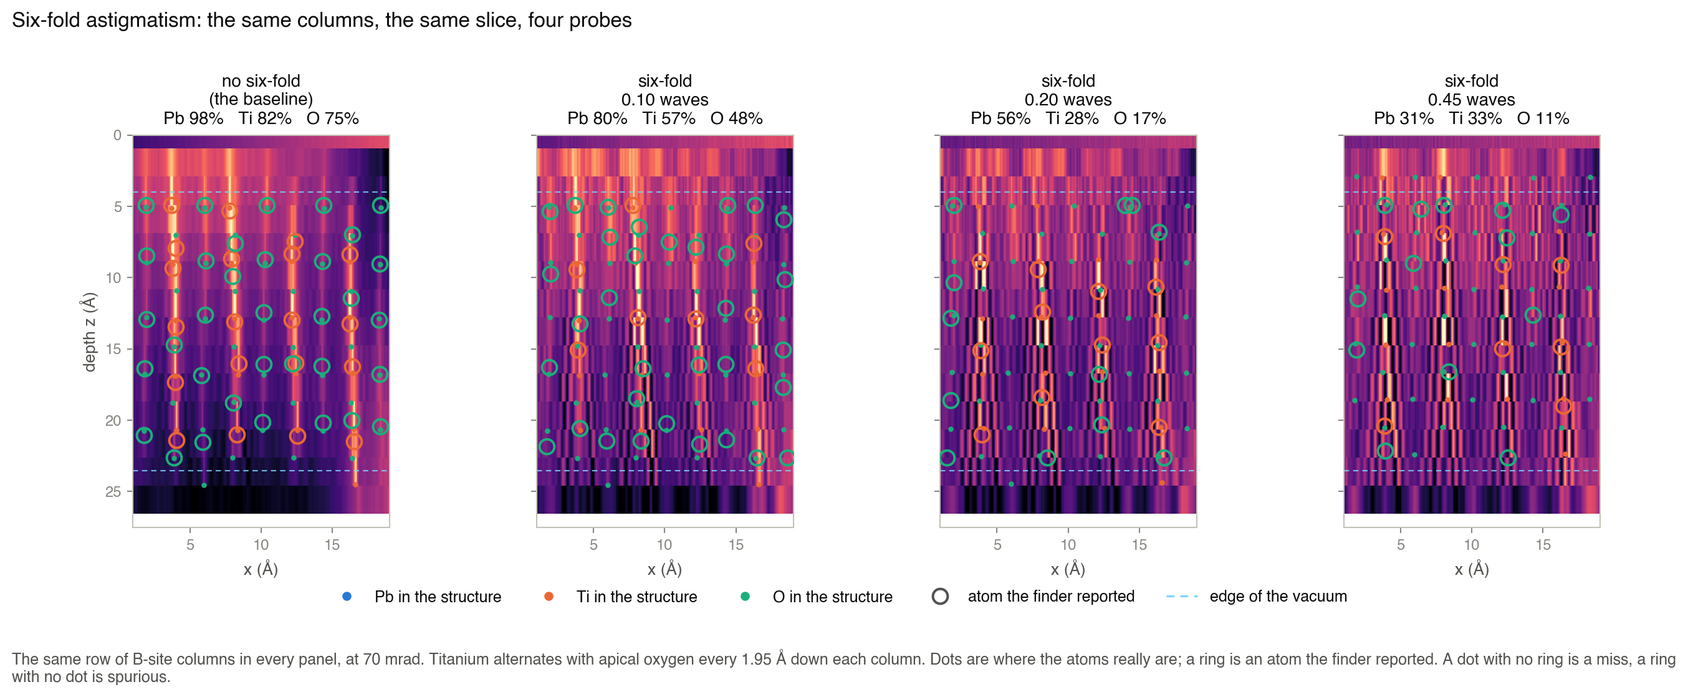
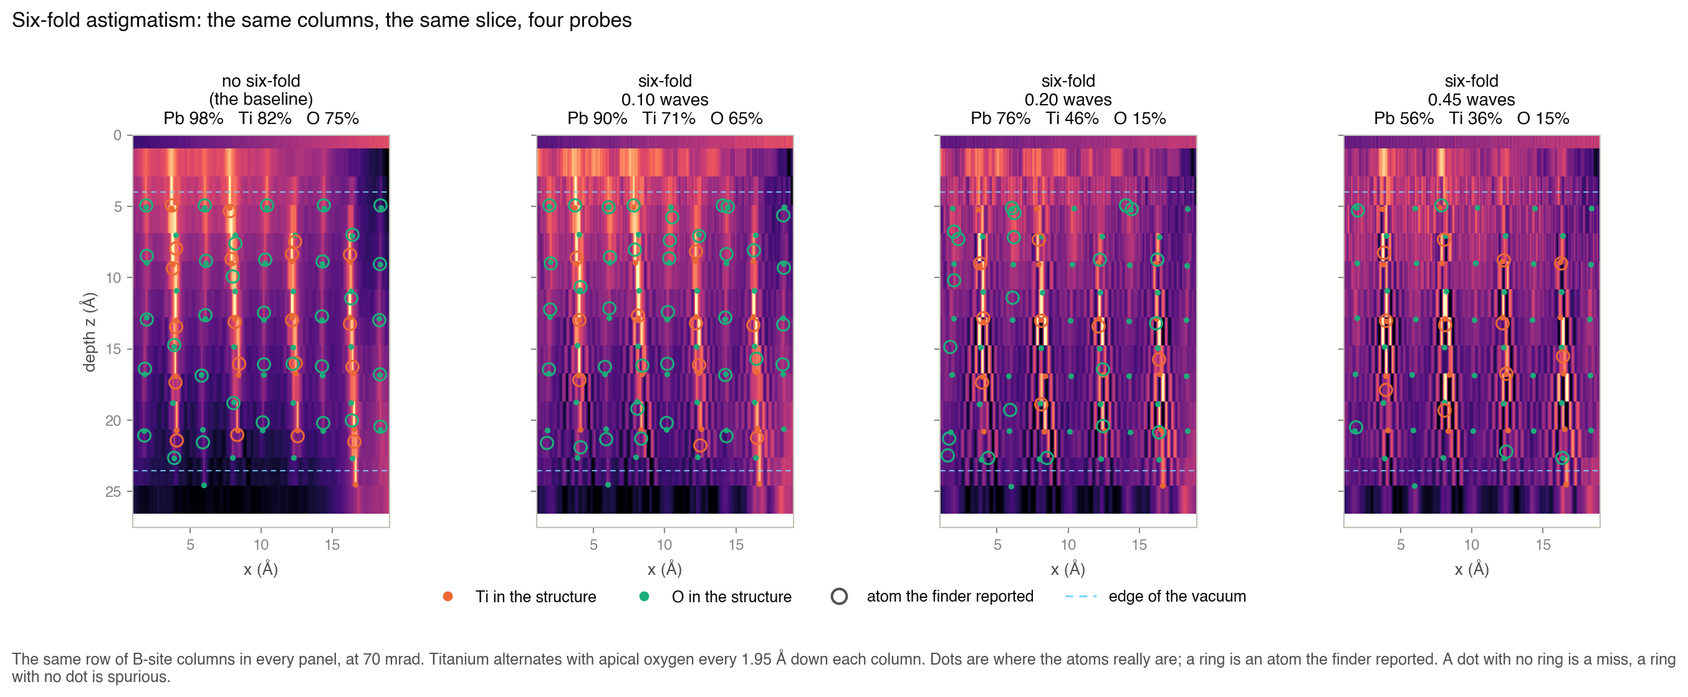
the probe-orientation fix was right: six-fold remeasured, up to +37 points of recall
The fix was nearly reverted on the strength of the wrong measurement. Re-reconstructing all eight
six-fold levels with the probe transposed along with the data moved the solver's final residual by
between -0.2% and +4%, on balance slightly worse, which read as a refutation. It was not. The same
eight reconstructions gained a mean of 17.5 points of lead recall, up to +37 at 1.2 waves, with
depth error and species confusion improving on every single level.

A fixed-probe solve with a free object absorbs a wrong probe into the object. The fit to the data
barely moves while the structure it produces is wrong -- the same degeneracy that defeats the
in-solver focus fit, which should have been recognised sooner. Judge a probe change on the object,
never on the residual. That is now the first thing the handoff says about it.

The six-fold ladder is therefore a result again, not a withdrawal. At 70 mrad the usable limit sits
between 0.1 and 0.2 waves: at 0.1 waves lead is 90% against a round-probe 98% and depth error 0.70 A
against 0.56, but species confusion is already 9.6% against a 5% threshold; by 0.2 waves oxygen has
fallen from 65% to 15%. All eight ladder rows rewritten from the corrected reconstructions, no VOID
rows remain, and the figures are regenerated from them.

The page drops the do-not-cite collapse and carries the corrected table, the before-and-after that
shows why the residual misled, and the open question: even corrected, the residual climbs with the
[…]

diff --git a/aberration_experiment/page/logbook.html b/aberration_experiment/page/logbook.html
@@ -271,7 +271,7 @@
     <div class="mast-meta">
       <span><b>Checkpoint</b> 2026-09-22</span>
       <span><b>Round-α campaign</b> complete</span>
-      <span><b>Relaxation ladder</b> focus and shot noise measured; six-fold withdrawn, being redone</span>
+      <span><b>Relaxation ladder</b> focus, shot noise and six-fold measured</span>
       <span><b>On the cluster</b> the 70 Å sample</span>
       <span><b>Written, not run</b> six-fold at 90 / 100 mrad; other orders</span>
     </div>
@@ -648,63 +648,95 @@
   </section>
 
   <section>
-    <h3 id="sixfold">5.3 &nbsp;Six-fold astigmatism — no result, and the bug that is the reason</h3>
+    <h3 id="sixfold">5.3 &nbsp;Six-fold astigmatism</h3>
+    <p>
+      A hexapole corrector nulls third-order spherical aberration and leaves six-fold astigmatism behind. No
+      round knob touches it and it grows as the sixth power of the aperture, so it is the residual that decides
+      how far the aperture can be opened. Eight levels were run at 70 mrad, each a complete pipeline: its own
+      reconstruction, its own single-atom reference measured through the same probe, then the finder run blind
+      and scored against the known structure.
+    </p>
     <div class="call stop">
-      <b>Nothing measured under six-fold astigmatism in this campaign is valid.</b> Every non-round
-      reconstruction ever run here — the August 2026 sweep, the escalation of 2026-09-21 and the threshold
-      ladder of 2026-09-22 — used a probe rotated 30° from the one the data was made with. A "tolerance below
-      0.1 waves" was published on this page on 2026-09-22 and withdrawn the same day. The engine is fixed and
-      every leg is being reconstructed again. Until they return, this campaign has <em class="term">no</em>
-      measurement of how much six-fold astigmatism the method tolerates.
+      <b>These numbers were measured twice.</b> The first set, published on 2026-09-22, was made with the probe
+      rotated 30° from the one the data came from, and was withdrawn. Everything below is the second set, on the
+      corrected engine. How that was found is worth reading before the table, because the way it hid is a
+      warning about which number to trust.
     </div>
-    <p>
-      It was caught by eye, not by a check. The reconstructions looked wrong — striped, and stuck at a mismatch
-      far above the round probe's — and a known-probe reconstruction should barely notice 0.2 waves of any smooth
-      aberration. Every test said the probe was right, which is what made it a paradox worth chasing rather than
-      a result worth believing.
-    </p>
-    <p>
-      The engine applies a detector orientation, <code>custom_data_flip = [0,0,1]</code>, which
-      <em class="term">transposes the diffraction data</em> as it loads. That setting was established by
-      reconstructing a chiral phantom under all eight detector orientations — with a round probe. The simulation
-      writes the probe in the same axis order as the data, and nothing transposed the probe to match. <strong>A
-      round probe is its own transpose</strong>, so every round leg of the campaign was correct and no test could
-      expose this. A six-fold probe is not: the transpose rotates the star by 30°. Two-fold is rotated by 90°,
-      three-fold by 30°; four-fold alone is unaffected.
-    </p>
+
     <div class="tablewrap">
       <table>
-        <caption>How badly wrong the probe was, and what it cost. The overlap is between the probe the engine
-          used and the one the data was made with. The equivalent focus error is the defocus that would produce
-          the same overlap; the mismatch it implies is read off the focus landscape in 5.1, and it is what those
-          legs actually plateaued at. The round probe reaches 22.</caption>
-        <thead><tr><th>six-fold</th><th>probe overlap</th><th>as a focus error</th><th>mismatch reached</th></tr></thead>
+        <caption>Six-fold astigmatism at 70 mrad, known probe, no counting noise, static atoms, reconstructed on
+          the corrected engine. Recall is over the interior planes. Confusion is the finder's own species-labelling
+          health check, whose threshold is 5 %. The tinted row is the round-probe baseline.</caption>
+        <thead><tr><th>six-fold</th><th>C<sub>56</sub></th><th>lead</th><th>titanium</th><th>oxygen</th><th>depth error</th><th>confusion</th></tr></thead>
         <tbody>
-          <tr><td>0.10 waves</td><td>0.95</td><td>≈ 1 Å</td><td>38</td></tr>
-          <tr><td>0.20 waves</td><td>0.82</td><td>≈ 4 Å</td><td>54</td></tr>
-          <tr><td>0.30 waves</td><td>0.69</td><td>≈ 5 Å</td><td>64</td></tr>
-          <tr><td>0.45 waves</td><td>0.57</td><td>≈ 6 Å</td><td>71</td></tr>
+          <tr class="ref"><td>none</td><td>—</td><td>98 %</td><td>82 %</td><td>75 %</td><td>0.56 Å</td><td>1.3 %</td></tr>
+          <tr><td>0.10 waves</td><td>10 µm</td><td>90 %</td><td>71 %</td><td>65 %</td><td>0.70 Å</td><td>9.6 % <span class="chip c-warn">failed</span></td></tr>
+          <tr><td>0.20 waves</td><td>20 µm</td><td>76 %</td><td>46 %</td><td>15 %</td><td>0.65 Å</td><td>17.5 % <span class="chip c-stop">failed</span></td></tr>
+          <tr><td>0.30 waves</td><td>30 µm</td><td>62 %</td><td>31 %</td><td>11 %</td><td>0.70 Å</td><td>24.2 % <span class="chip c-stop">failed</span></td></tr>
+          <tr><td>0.45 waves</td><td>45 µm</td><td>56 %</td><td>36 %</td><td>15 %</td><td>0.71 Å</td><td>28.1 % <span class="chip c-stop">failed</span></td></tr>
+          <tr><td>0.60 waves</td><td>60 µm</td><td>65 %</td><td>40 %</td><td>16 %</td><td>0.77 Å</td><td>22.2 % <span class="chip c-stop">failed</span></td></tr>
+          <tr><td>1.20 waves</td><td>0.12 mm</td><td>44 %</td><td>35 %</td><td>12 %</td><td>0.79 Å</td><td>28.8 % <span class="chip c-stop">failed</span></td></tr>
+          <tr><td>2.50 waves</td><td>0.25 mm</td><td>20 %</td><td>18 %</td><td>4 %</td><td>0.88 Å</td><td>38.8 % <span class="chip c-stop">failed</span></td></tr>
         </tbody>
       </table>
     </div>
+
+    <h3>What the table says</h3>
+    <ul>
+      <li><strong>The heavy atoms survive 0.1 waves.</strong> Lead is 90 % against a round-probe 98 %, and depth
+        error 0.70 Å against 0.56. That is a cost, not a collapse.</li>
+      <li><strong>Species labelling does not.</strong> Confusion crosses its 5 % health threshold at the very
+        first level and is 17 % by the second. Where it has failed, the split between lead, titanium and oxygen
+        is label swapping and must not be read as physics.</li>
+      <li><strong>Oxygen falls off a cliff between 0.1 and 0.2 waves</strong>, 65 % to 15 %, while lead only goes
+        90 to 76. The light atoms are the first thing lost.</li>
+      <li><strong>So the usable limit sits between 0.1 and 0.2 waves</strong> if you need species labels, and
+        nearer 0.2 if you only need the heavy lattice. The ladder does not resolve it more finely than that;
+        rungs at 0.02, 0.04 and 0.07 waves are written and waiting on cluster time.</li>
+      <li><strong>Depth error is nearly flat</strong> across the whole ladder, 0.65 to 0.88 Å, because it is
+        measured only on the atoms still being found. Recall is the honest column.</li>
+    </ul>
+
+    <h3>How the error hid, and what it cost to find</h3>
     <p>
-      The four checks that came before the diagnosis were each true, and together they are what forced it: the
-      probe <em class="term">file</em> was right (overlap 1.000000 against an independent rebuild, so the fault
-      was in what the engine did with it); the solver had converged, its mismatch falling under 3 % over the
-      final fifth of its iterations, to a worse fit rather than an unfinished one; the stripes carried the
-      lattice's own periods, 3.9 and 1.97 Å, the same as the round leg's, driven further into the exit vacuum;
-      and the reconstruction window held all but 0.3 % of the probe at every level. Right file, converged, worse
-      fit, no window effect — which left only the engine's own handling of the probe.
+      The engine applies a detector orientation, <code>custom_data_flip = [0,0,1]</code>, which
+      <em class="term">transposes the diffraction data</em> as it loads. That setting was established by
+      reconstructing a chiral phantom under all eight orientations — with a round probe. The simulation writes
+      the probe in the same axis order as the data, and nothing transposed the probe to match. <strong>A round
+      probe is its own transpose</strong>, so every round leg of the campaign was correct and no test in the
+      pipeline could expose this. A six-fold probe is not: the transpose rotates the star by 30°.
     </p>
-    <div class="call ok">
-      <b>The fix.</b> <code>load_from_p.m</code> now applies every flip the data receives to the probe and to
-      its aperture mask, at the same place in the code, so the two cannot diverge again. The simulations were
-      never affected, so every leg re-reconstructs from data already on disk.
+    <div class="call stop">
+      <b>The data residual did not show it, and very nearly sent us the wrong way.</b> Re-running all eight levels
+      with the probe correctly oriented changed the solver's final mismatch by between −0.2 % and +4 %, and on
+      balance made it slightly <em>worse</em> — which read as a refutation. It was not. The same eight
+      reconstructions gained up to 37 points of lead recall. A fixed-probe solve with a free object absorbs a
+      wrong probe into the object: the fit to the data barely moves while the structure it produces is wrong.
+      It is the same degeneracy that defeats the in-solver focus fit in 5.1. <strong>Judge a probe change on the
+      object, never on the residual.</strong>
     </div>
-    <p>
-      What survives of this step is not a tolerance but two things that do not depend on any reconstruction: what
-      six-fold does to the probe, below, and how fast each residual grows with aperture, in §6.
-    </p>
+    <div class="tablewrap">
+      <table>
+        <caption>The same eight reconstructions, before and after the probe was transposed along with the data.
+          The residual is what we first judged it by; recall is what was actually happening.</caption>
+        <thead><tr><th>six-fold</th><th>residual</th><th>lead recall</th><th>depth error</th><th>confusion</th></tr></thead>
+        <tbody>
+          <tr><td>0.10 waves</td><td>37.8 → 37.8</td><td>80 → <strong>90 %</strong></td><td>0.76 → 0.70 Å</td><td>12.4 → 9.6 %</td></tr>
+          <tr><td>0.20 waves</td><td>54.2 → 54.7</td><td>56 → <strong>76 %</strong></td><td>0.82 → 0.65 Å</td><td>28.4 → 17.5 %</td></tr>
+          <tr><td>0.45 waves</td><td>71.2 → 74.0</td><td>31 → <strong>56 %</strong></td><td>0.86 → 0.71 Å</td><td>31.9 → 28.1 %</td></tr>
+          <tr><td>1.20 waves</td><td>75.8 → 77.2</td><td>7 → <strong>44 %</strong></td><td>1.03 → 0.79 Å</td><td>50.0 → 28.8 %</td></tr>
+        </tbody>
+      </table>
+    </div>
+    <div class="call">
+      <b>One thing is still unexplained.</b> Even corrected, the solver's residual climbs steadily with the
+      aberration — 24 for a round probe, 38 at 0.1 waves, 74 at 0.45 — and rotating the probe barely moves it.
+      Something tracks the aberration's magnitude while ignoring its orientation, and we do not yet know what.
+      Two checks are on the cluster: the round control reconstructed from this campaign's own simulation, to
+      confirm the 24 is comparable at all, and the 0.45-wave leg at 28 depth layers instead of 14, to test
+      whether the reconstruction's own slice thickness sets the floor.
+    </div>
   </section>
 
   <section class="wide">
@@ -732,55 +764,29 @@
           beam, stretched along it. Every leg gets its own.</div>
       </figcaption>
     </figure>
-  </section>
-
-  <section>
-    <details class="void">
-      <summary>Withdrawn: the six-fold measurements as they were published on 2026-09-22 — do not cite</summary>
-      <div class="void-body">
-        <p>
-          Kept only so the record shows what was claimed and what it looked like. Every number and every
-          reconstruction here carries the probe-orientation error described above. They are not a measurement of
-          six-fold tolerance; they are a measurement of a 30° probe rotation that grows with the aberration.
-        </p>
-        <div class="tablewrap">
-          <table>
-            <caption>VOID. Six-fold astigmatism at 70 mrad, known probe, no counting noise, static atoms, as
-              published on 2026-09-22.</caption>
-            <thead><tr><th>six-fold</th><th>C<sub>56</sub></th><th>lead found</th><th>titanium</th><th>oxygen</th><th>depth error</th></tr></thead>
-            <tbody>
-              <tr class="ref"><td>none</td><td>—</td><td>98 %</td><td>82 %</td><td>75 %</td><td>0.56 Å</td></tr>
-              <tr><td>0.10 waves</td><td>10 µm</td><td>80 %</td><td>57 %</td><td>48 %</td><td>0.76 Å</td></tr>
-              <tr><td>0.20 waves</td><td>20 µm</td><td>56 %</td><td>28 %</td><td>17 %</td><td>0.82 Å</td></tr>
-              <tr><td>0.45 waves</td><td>45 µm</td><td>31 %</td><td>33 %</td><td>11 %</td><td>0.86 Å</td></tr>
-            </tbody>
-          </table>
-        </div>
-        <figure>
-          <img src="{{FIG_NONROUND}}" alt="Withdrawn: four depth sections through the same row of columns at no six-fold and at 0.10, 0.20 and 0.45 waves.">
-          <figcaption>
-            <span class="fig-name">VOID · fig_nonround.png</span>
-            The striping that spreads across the field as six-fold grows is the signature of the mis-oriented
-            probe, not of the aberration.
-          </figcaption>
-        </figure>
-        <figure>
-          <img src="{{FIG_BLAME}}" alt="Withdrawn: the same depth section three times at 0.20 waves — bare, with true positions, with detections.">
-          <figcaption>
-            <span class="fig-name">VOID · fig_didfinderfail_0p2.png</span>
-            This figure asked whether the reconstruction or the atom finder was at fault. The answer, now, is
-            neither: the probe was wrong.
-          </figcaption>
-        </figure>
-        <p>
-          One result from this block does survive, because it is a control rather than a measurement. Re-running
-          the finder on identical reconstructions with its quality threshold relaxed recovers a large amount of
-          recall on aberrated legs while changing the clean baseline almost not at all — so the finder's cut does
-          discard real atoms when its reference degrades, whatever the cause. On the thermal-vibration legs the
-          same change does nothing whatsoever, which is why the phonon collapse is trusted as physics.
-        </p>
-      </div>
-    </details>
+    <figure>
+      <img src="{{FIG_NONROUND}}" alt="Four depth sections through the same row of columns, at no six-fold and at 0.10, 0.20 and 0.45 waves, true atom positions as dots and detections as rings.">
+      <figcaption>
+        <span class="fig-name">analysis/make_simple_figs.py → figs/2026-W39/simple/fig_nonround.png</span>
+        The same row of columns, the same slice, four probes, on the corrected engine. Dots are where the atoms
+        really are; a ring is an atom the finder reported.
+        <div class="howto"><b>Reading it</b><br>Titanium alternates with apical oxygen every 1.95 Å down each
+          column, so a working reconstruction beads each column into separate blobs. A dot with no ring is a
+          missed atom; a ring with no dot is a spurious one. At 0.10 waves the columns are still beaded and
+          mostly found; by 0.45 the light atoms between them have gone.</div>
+      </figcaption>
+    </figure>
+    <figure>
+      <img src="{{FIG_BLAME}}" alt="The same depth section three times at 0.20 waves of six-fold: bare, with true atom positions, and with the finder's detections added.">
+      <figcaption>
+        <span class="fig-name">analysis/make_simple_figs.py → figs/2026-W39/simple/fig_didfinderfail_0p2.png</span>
+        One level, 0.20 waves, shown three ways so the reconstruction can be judged before the answer is drawn
+        on it.
+        <div class="howto"><b>Reading it</b><br>Judge the left panel on its own first, then see which peaks
+          carried a detection. This is the figure that made the probe error findable: peaks were plainly present
+          that the finder was not reporting, which is what prompted looking at the probe rather than the finder.</div>
+      </figcaption>
+    </figure>
   </section>
 
   <section id="s6">
@@ -876,7 +882,7 @@
           <tr><td>1</td><td class="wrap">focus unknown</td><td class="wrap"><strong>no real cost</strong>, by an outer search; the in-solver fit is closed</td><td><span class="chip c-ok">measured</span></td></tr>
           <tr><td>2</td><td class="wrap">shot noise</td><td class="wrap">works to 10<sup>5</sup> e/Å²; at 10<sup>4</sup> no single-atom reference can be measured</td><td><span class="chip c-ok">measured</span></td></tr>
           <tr><td>3</td><td class="wrap">thermal vibration</td><td class="wrap">depth error roughly doubles; oxygen recall 10–17 %; not a finder artefact</td><td><span class="chip c-warn">costly</span></td></tr>
-          <tr><td>4</td><td class="wrap">six-fold astigmatism, 70 mrad</td><td class="wrap"><strong>withdrawn</strong>: reconstructed with a mis-oriented probe; loader fixed, legs being redone</td><td><span class="chip c-warn">redo</span></td></tr>
+          <tr><td>4</td><td class="wrap">six-fold astigmatism, 70 mrad</td><td class="wrap"><strong>usable limit between 0.1 and 0.2 waves</strong>; species labels fail from 0.1. Remeasured on the corrected engine</td><td><span class="chip c-ok">measured</span></td></tr>
           <tr><td>4b</td><td class="wrap">six-fold at 90 and 100 mrad</td><td class="wrap">same waves as the 70 mrad rungs, plus the 10 µm value carried up unchanged</td><td><span class="chip c-open">written</span></td></tr>
           <tr><td>4c</td><td class="wrap">other orders: two-fold, three-fold, three-lobe</td><td class="wrap">at 0.1 and 0.3 waves — does the limit transfer?</td><td><span class="chip c-open">written</span></td></tr>
           <tr><td>4d</td><td class="wrap">the assumed instrument as-is, 70 mrad</td><td class="wrap">C<sub>56</sub> 1 mm: needs binning 1 and a wider scan, ~3 GPU-days, expected to fail on geometry</td><td><span class="chip c-none">optional</span></td></tr>

diff --git a/analysis/make_simple_figs.py b/analysis/make_simple_figs.py
@@ -160,8 +160,9 @@ def recall(af_dir):
 
 
 # ------------------------------------------------------------------ the figures
-NR_ROOT = "~/Desktop/relax_0922/atomfind_results_nr0p1_C56_0p1w-nr0p2_C56_0p2w-nr0p3_C56_0p3w-nr0p45_C56_0p45w_20260921_225614"
-NR_AF = "~/Desktop/relax_0922/analysis_0922"
+# the six-fold legs as re-reconstructed with the probe transposed along with the data
+NR_ROOT = "~/Desktop/nr_block2/atomfind_results_nr0p1_C56_0p1w-nr0p2_C56_0p2w-nr0p3_C56_0p3w-nr0p45_C56_0p45w-nr1_C56_0p6w-nr2_C56_1p2w-nr3_C56_2p5w-nr4_C56_C34_20260922_122756"
+NR_AF = "~/Desktop/nr_block2/analysis_fixed"
 DOSE_ROOT = "~/Desktop/relax_0917/atomfind_results_a70-90_dose1e7-1e6-1e5-1e4_20260917_181903"
 DOSE_AF = "~/Desktop/relax_0917/dose_analysis"
 BASE_RECON = "~/Desktop/thin_ab_af_final/recon_af_a70_lab_NL14"

diff --git a/analysis/make_relaxation_figs.py b/analysis/make_relaxation_figs.py
@@ -42,7 +42,10 @@ from make_meeting_figs import (S1, S2, S3, INK, INK2, MUTED, GRIDC, SPECIES,   #
                                style, tag, save, read_csv_rows, read_reports, results_dir,
                                _load_mod, build_probe, aperture_phase, probe_crop)
 
-RELAX = ["~/Desktop/relax_0921", "~/Desktop/relax_0922"]
+# nr_block2 FIRST: it holds the six-fold legs re-reconstructed on the engine that transposes the
+# probe with the data (2026-09-22). af() takes the first root that has a leg, so the corrected
+# reconstruction wins over the pre-fix one of the same name.
+RELAX = ["~/Desktop/nr_block2", "~/Desktop/relax_0921", "~/Desktop/relax_0922"]
 AF_FINAL = "~/Desktop/thin_ab_af_final"
 BAD = "#c1502a"
 _AW = None

diff --git a/aberration_experiment/HANDOFF_ANALYSIS.md b/aberration_experiment/HANDOFF_ANALYSIS.md
@@ -1,4 +1,4 @@
-# Handoff — the non-round results were wrong; the engine is fixed and the campaign is re-running
+# Handoff — the probe-orientation bug is real and fixed; six-fold is remeasured
 
 Written 2026-09-22, after the round-two analysis. **Read `HANDOVER.md`** for the experiment itself,
 then `NEXT_PHASE.md` for the plan and `PSF_KERNELS.md` for the kernel rules. The two published pages
@@ -33,27 +33,46 @@ to the **same** URL. One page. Never start another for an update.
 
 ## Where it stands
 
-**Two results stand from the 2026-09-22 round, and one does not.**
+**Three results stand from the 2026-09-22 round.**
 
-**Valid — an unknown focus costs nothing.** An outer search over fixed trial probes, reading the solver's own
-mismatch as the objective, puts its minimum on the true focus at both apertures (−2 ± 3 Å at 70 mrad, +2 ± 1 Å
-at 90; the ±2 Å floor is the focus/depth degeneracy and is real). Reconstructing at the fitted focus costs
-nothing measurable: depth error 0.56 → 0.59 Å at 70 mrad, 0.37 → 0.44 at 90. Fifty iterations rank the trials
-as two hundred do, which is what makes it affordable. The tidier alternative — the solver fitting focus as its
-one free probe parameter — is **closed as a failure**: at 90 mrad the focus never moves by 1 Å from starts 32 Å
-out, at 70 mrad it moves the wrong way to about 21 Å below the truth whatever it started from, and neither
-freezing the object nor capping the step changes it.
+**Valid — an unknown focus costs nothing.** An outer search over fixed trial probes puts its minimum on the
+true focus at both apertures (−2 ± 3 Å at 70 mrad, +2 ± 1 Å at 90) and costs nothing measurable: depth error
+0.56 → 0.59 Å at 70 mrad, 0.37 → 0.44 at 90. The in-solver alternative is **closed as a failure**.
 
-**Valid — shot noise behaves.** 10⁷ and 10⁶ e/Å² hold up, 10⁵ works with the light atoms going, and at 10⁴ no
-single-atom reference can be measured from the data at all, so the finder never runs. Numbers in the ladder,
-pictures on the page.
+**Valid — shot noise behaves.** 10⁷ and 10⁶ e/Å² hold, 10⁵ works with the light atoms going, and at 10⁴ no
+single-atom reference can be measured at all, so the finder never runs.
 
-**VOID — everything non-round.** Every reconstruction with a non-round probe ever made in this campaign used a
-probe rotated 30° from the one the data was made with (first row of *Traps*). That covers the August 2026
-sweep, the 2026-09-21 escalation and the 2026-09-22 threshold ladder. A "six-fold tolerance below 0.1 waves"
-was published on 2026-09-22 and withdrawn the same day. **The campaign currently has no measurement of how much
-non-round aberration the method tolerates.** The engine is fixed, the simulations were never affected, and
-every leg is re-reconstructing; see *Your job*.
+**Valid, after being remeasured — six-fold astigmatism.** The usable limit at 70 mrad sits **between 0.1 and
+0.2 waves**: at 0.1 waves lead recall is 90 % against a round-probe 98 % and depth error 0.70 Å against 0.56,
+but species confusion is already 9.6 % against a 5 % health threshold; by 0.2 waves oxygen has gone from 65 %
+to 15 %. Rungs at 0.02, 0.04 and 0.07 waves are written and waiting on cluster time.
+
+### The probe-orientation bug — real, fixed, and a lesson about which number to trust
+
+The engine transposes the diffraction data on load (`custom_data_flip = [0,0,1]`, set by a chiral-phantom test
+run with a **round** probe) and did not transpose the probe with it. A round probe is its own transpose, so
+every round leg was always correct and nothing in the pipeline could expose it; a six-fold probe is rotated
+30°. `load_from_p.m` now applies every data flip to the probe and its aperture mask.
+
+**The data residual does not show it.** Re-running all eight levels with the probe correct changed the
+solver's final mismatch by between −0.2 % and +4 %, on balance slightly *worse* — which reads as a refutation
+and very nearly got the fix reverted. The same eight reconstructions gained up to **37 points** of lead recall,
+with depth error and species confusion improving on every one. A fixed-probe solve with a free object absorbs a
+wrong probe into the object: the fit barely moves while the structure is wrong. It is the same degeneracy that
+defeats the in-solver focus fit. **Judge a probe change on the object, never on the residual.**
+
+| six-fold | residual | lead recall | depth error | confusion |
+|---|---|---|---|---|
+| 0.10 waves | 37.8 → 37.8 | 80 → **90 %** | 0.76 → 0.70 Å | 12.4 → 9.6 % |
+| 0.20 waves | 54.2 → 54.7 | 56 → **76 %** | 0.82 → 0.65 Å | 28.4 → 17.5 % |
+| 0.45 waves | 71.2 → 74.0 | 31 → **56 %** | 0.86 → 0.71 Å | 31.9 → 28.1 % |
+| 1.20 waves | 75.8 → 77.2 | 7 → **44 %** | 1.03 → 0.79 Å | 50.0 → 28.8 % |
+
+**Still unexplained.** Even corrected, the residual climbs with the aberration (24 round, 38 at 0.1 waves, 74
+at 0.45) and ignores the probe's orientation. Two checks were on the cluster when this was written —
+`sacct -j 1288170,1288175`: **A**, `nr0_round` at NL 14, the round control from this campaign's own simulation,
+and **B**, the 0.45-wave leg at NL 28, testing whether the reconstruction's own slice thickness sets the floor.
+Read both from `tail -1 <recon dir>/analysis/*/*/*_error_trace.csv`.
 
 **Still analytic, and unaffected by any of this**: how fast each residual grows with aperture. A term of order
 n grows as α^(n+1), so with the residuals a real hexapole corrector leaves, every non-round term is over
